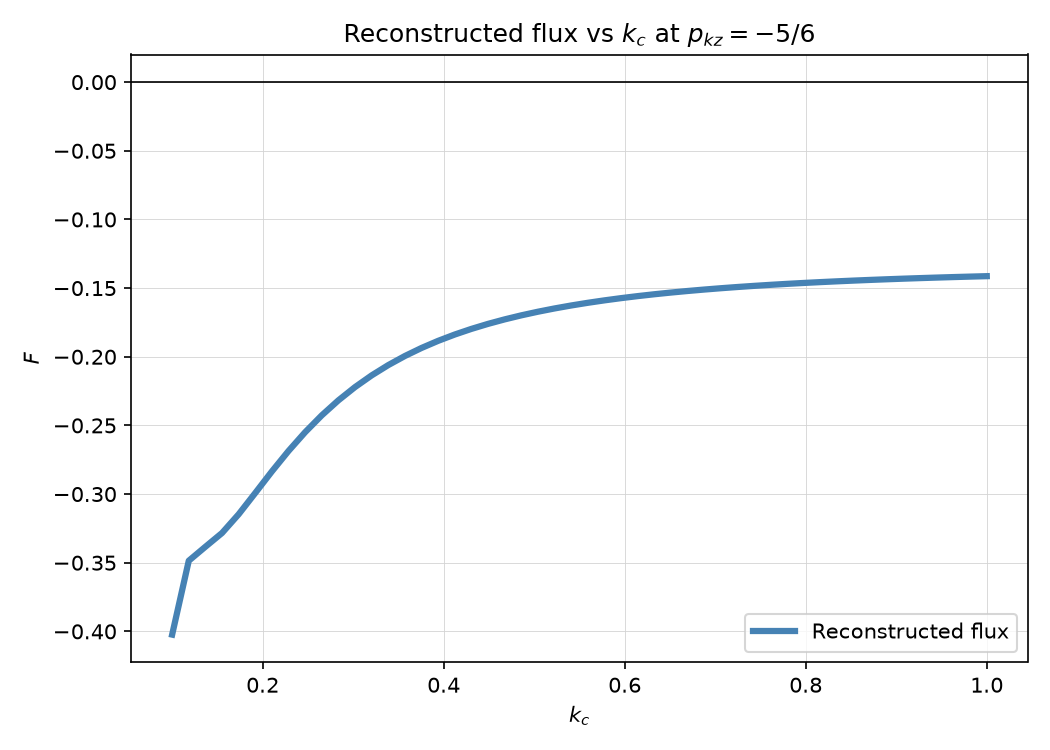
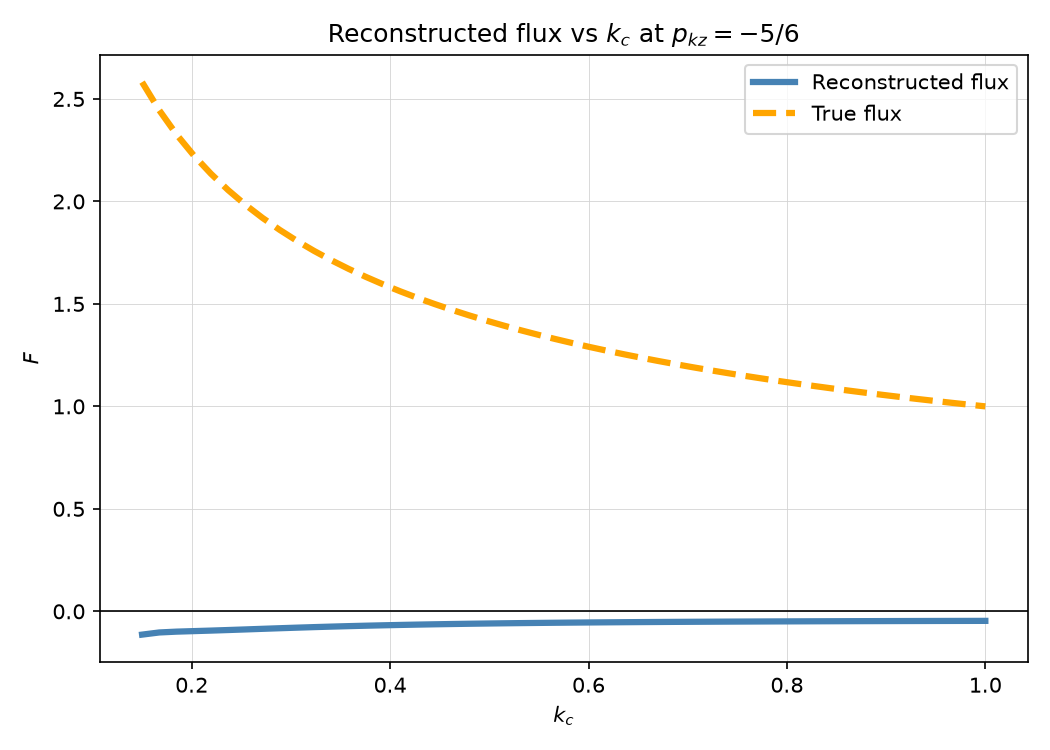
refactor: update coefficient fitting parameters and enhance flux reconstruction plotting in main_mmt.py

diff --git a/main_mmt.py b/main_mmt.py
@@ -48,20 +48,20 @@ test_data = splits["test"]
 #    save_path="outputs_mmt/flux_vs_p_mmt.png", show=False
 #)
 
-plot_coefficients_vs_p(
-    model, sensor_grid=data["sensor_grid"], ps=np.linspace(-0.9, 0.05, 50), A=1.0,
-    k_c_values=np.linspace(0.1, 1.0, 50),beta=0.25, N=300, IntN=200, max_order=3,
-    save_path="outputs_mmt/coefficients_vs_p_mmt.png", show=False
-)
+#plot_coefficients_vs_p(
+#    model, sensor_grid=data["sensor_grid"], ps=np.linspace(-0.9, 0.05, 50), A=1.0,
+#    k_c_values=np.linspace(0.1, 1.0, 50),beta=0.25, N=300, IntN=200, max_order=3,
+#    save_path="outputs_mmt/coefficients_vs_p_mmt.png", show=False
+#)
 
 (coef_p, int_p, r2_p), (coef_e, int_e, r2_e) = fit_operators_at_fixed_p(
     model, sensor_grid=data["sensor_grid"], p=-5/6, A=1, 
-    k_c_values=np.linspace(0.1, 1.0, 50), beta=0.25, N=300, IntN=200, max_order=3,
+    k_c_values=np.linspace(0.1, 1.0, 50), beta=0.25, N=900, IntN=600, max_order=3,
     ridge_alpha=1e-3)
 
 print("Coefficienti (DeepONet):", coef_p, "| intercetta:", int_p, "| R^2:", r2_p)
 print("Coefficienti (solver MMT):", coef_e, "| intercetta:", int_e, "| R^2:", r2_e)
 
-plot_flux_reconstructed(model, sensor_grid=data["sensor_grid"], k_c_values=np.linspace(0.1, 1.0, 50),
-                        p=-5/6, A=1, beta=0.25, N=300, IntN=200, max_order=3, 
+plot_flux_reconstructed(model, sensor_grid=data["sensor_grid"], k_c_values=np.linspace(0.15, 1.0, 50),
+                        p=-5/6, A=1, beta=0.25, N=900, IntN=600, max_order=3, 
                         save_path="outputs_mmt/reconstructed_flux_mmt.png", show=False)

diff --git a/src/physics/operator_library_mmt.py b/src/physics/operator_library_mmt.py
@@ -65,9 +65,11 @@ def plot_flux_reconstructed(model, sensor_grid, k_c_values, p= -5/6, A = 1, beta
     X_scaled = scaler.fit_transform(X)
 
     F_reconstructed = X_scaled @ coef_e + int_e
+    F_real = k_c_values ** (-1/2)
  
     plt.figure(figsize=(7,5))
     plt.plot(k_c_values, F_reconstructed , linewidth = 3, label = "Reconstructed flux", color = "steelblue")
+    plt.plot(k_c_values, F_real, linewidth = 3, linestyle ="--", label = "True flux", color = "orange")
     plt.xlabel(r"$k_c$")
     plt.ylabel(r"$F$")
     plt.title(r"Reconstructed flux vs $k_c$ at $p_{kz}=-5/6$")
